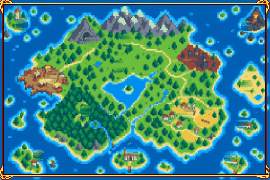
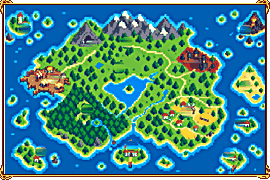
web client: world map fits inside Kaetram frame window + LANCZOS/unsharp sharpening
- map no longer bleeds over the frame ring: it now fills only the inner
  window (inset 5px) measured from the original mapframe.png
- sharper source: LANCZOS downscale + unsharp mask, 128-color quantize
- numbered warp check image for icon repositioning feedback

diff --git a/scripts/_build_hub_worldmap.py b/scripts/_build_hub_worldmap.py
@@ -1,37 +1,47 @@
 """Build the final hub world map asset:
-1. Source = the user's GPT render (retro 96-color look they chose).
-2. CROP off the GPT-generated golden frame (keep only the inner map/ocean).
-3. True-downscale to 270x180 + flat 96-color quantize (retro pixel look).
-4. Composite the hollow ORIGINAL Kaetram frame ring on top -> this becomes
+1. Source = the user's APPROVED map (Lightshot 782, clean render).
+2. Crop off the GPT golden frame; inpaint the 14 translucent red markers.
+3. Scale the map to fit INSIDE the Kaetram frame's inner window (the frame
+   ring occupies only the outer ~5px — the map must NOT bleed over it).
+   Sharper look: LANCZOS downscale + unsharp mask (instead of BOX + flat).
+4. Composite the hollow ORIGINAL Kaetram frame ring on top ->
    web_client/public/ui/kaetram/interface/mapframe_custom.png
-(The CSS keeps the Kaetram frame visuals: we bake map under the ring into
-one PNG so no CSS layering is needed, and the close button area is intact.)
+5. Export a numbered check image (one bold number per warp icon) so the
+   user can say "move icon N to X" easily.
 """
+import json
+import math
+
 import numpy as np
-from PIL import Image
+from PIL import Image, ImageDraw, ImageFont
 
-# SOURCE = the user's APPROVED map (Lightshot 782 — the CLEAN render: green
-# forest everywhere the old variant had the dark-red/slate/orange blobs).
-# It carries 14 translucent red marker circles at our known warp coords —
-# each is inpainted below by cloning the ring pixels around it (median of
-# the surrounding annulus), so the underlying map art shows through.
-src = Image.open("_tmp_correct_map.png").convert("RGB")
+SRC = "_tmp_correct_map.png"
+FRAME = "web_client/public/ui/kaetram/interface/mapframe.png"
+HOLLOW = "web_client/public/ui/kaetram/interface/mapframe_hollow.png"
+OUT = "web_client/public/ui/kaetram/interface/mapframe_custom.png"
+MARKERS_JSON = "exported_map_art/warp_markers.json"
+CHECK = "exported_map_art/mapframe_custom_markers_x3.png"
+
+# --- inner window of the Kaetram frame (measured from mapframe.png) ------
+# ring: rows 3-4 top/bottom, cols 2-3 left/right (alpha 0 at 0-1 / 0-1).
+# Inner safe window with 1px breathing room:
+INSET = 5
+W, H = 270, 180
+IX0, IY0, IX1, IY1 = INSET, INSET, W - INSET, H - INSET
+IW, IH = IX1 - IX0, IY1 - IY0  # 260 x 170
+
+src = Image.open(SRC).convert("RGB")
 w, h = src.size
-
-# --- locate the golden GPT frame and crop INSIDE it -------------------
-# gold: high r, mid g, low b
 px = src.load()
+
 
 def is_goldish(c):
     r, g, b = c
     return r > 170 and g > 110 and b < 110 and (r - b) > 90
 
-# The GPT frame does NOT start at the image edge: outside it there is a
-# blue ocean margin, THEN the gold ring, THEN the map. So detect the gold
-# BAND range per edge (first/last mostly-gold row/col) and crop just inside
-# its inner boundary. Measured on the actual render: gold band at y≈8-16.
+
+# --- locate the golden GPT frame and crop INSIDE it ----------------------
 def gold_band(axis, reverse):
-    """(first, last) index of the dominant-gold band along an edge."""
     bands = []
     for i in range(120):
         if axis == "row":
@@ -46,6 +56,7 @@ def gold_band(axis, reverse):
         return None
     return (bands[0], bands[-1])
 
+
 top_band = gold_band("row", False)
 bot_band = gold_band("row", True)
 left_band = gold_band("col", False)
@@ -53,29 +64,19 @@ right_band = gold_band("col", True)
 print("gold bands:", top_band, bot_band, left_band, right_band)
 
 # --- inpaint the 14 translucent red marker circles -------------------------
-# Each marker sits at a known relative position (warp_markers.json, stored
-# in the 270x180 space that maps linearly onto this screenshot because the
-# user screenshotted the full map frame both times). For each marker: take
-# a ring of pixels JUST OUTSIDE the circle and fill the disc with per-scanline
-# horizontal interpolation between the ring's left/right edges — cheap and
-# seamless for flat-color pixel art.
-import json
-import math
-mk = json.load(open("exported_map_art/warp_markers.json"))
+mk = json.load(open(MARKERS_JSON))
 msrc = src.load()
-R = int(h * 0.032)  # marker radius in screenshot px (≈3.2% of height)
+R = int(h * 0.032)
 for m in mk["markers"]:
-    cx = m["x"] / 270 * w
-    cy = m["y"] / 180 * h
-    ri = R + 2   # disc to fill (slightly larger than the visible ring)
-    ro = R + 6   # sampling annulus outside it
+    cx = m["x"] / W * w
+    cy = m["y"] / H * h
+    ri = R + 2
     for dy in range(-ri, ri + 1):
         y = int(cy) + dy
         if not (0 <= y < h):
             continue
         span = int(math.sqrt(max(0.0, ri * ri - dy * dy)))
         x0, x1 = int(cx) - span, int(cx) + span
-        # sample just outside the disc on this scanline
         lx = max(0, x0 - 6)
         rx = min(w - 1, x1 + 6)
         lc = msrc[lx, y]
@@ -88,6 +89,7 @@ for m in mk["markers"]:
                 round(lc[2] + (rc[2] - lc[2]) * t),
             )
 print("inpainted", len(mk["markers"]), "markers")
+
 ft = (top_band[1] + 2) if top_band else 0
 fb = (bot_band[1] + 2) if bot_band else 0
 fl = (left_band[1] + 2) if left_band else 0
@@ -96,28 +98,43 @@ print(f"crop: L{fl} R{fr} T{ft} B{fb}")
 inner = src.crop((fl, ft, w - fr, h - fb))
 print("inner size:", inner.size)
 
-# --- true downscale + retro flat quantize -----------------------------
-small = inner.resize((270, 180), Image.BOX)
-q = small.quantize(colors=96, method=Image.MEDIANCUT, dither=Image.NONE).convert("RGB")
+# --- sharper downscale INTO the frame's inner window ----------------------
+# Cover-fit: scale so the map fills the window, center-crop the overflow.
+sw, sh = inner.size
+scale = max(IW / sw, IH / sh)
+nw, nh = round(sw * scale), round(sh * scale)
+sharp = inner.resize((nw, nh), Image.LANCZOS)
+# unsharp mask for crisp pixel-art edges after downscale
+sharp = sharp.filter(__import__("PIL.ImageFilter", fromlist=["ImageFilter"]).UnsharpMask(radius=2, percent=110, threshold=2))
+lx0, ly0 = (nw - IW) // 2, (nh - IH) // 2
+map_img = sharp.crop((lx0, ly0, lx0 + IW, ly0 + IH))
+q = map_img.quantize(colors=128, method=Image.MEDIANCUT, dither=Image.NONE).convert("RGB")
 q.save("exported_map_art/worldmap_hub_inner.png")
 
-# --- composite the hollow Kaetram ring on top -------------------------
-hollow = Image.open("web_client/public/ui/kaetram/interface/mapframe_hollow.png").convert("RGBA")
-base = q.convert("RGBA")
+# --- composite: transparent base + map inside window + hollow ring on top -
+base = Image.new("RGBA", (W, H), (0, 0, 0, 0))
+base.paste(q, (IX0, IY0))
+hollow = Image.open(HOLLOW).convert("RGBA")
 base.alpha_composite(hollow)
-base.save("web_client/public/ui/kaetram/interface/mapframe_custom.png")
-base.resize((810, 540), Image.NEAREST).save("exported_map_art/mapframe_custom_x3.png")
-print("saved -> web_client/public/ui/kaetram/interface/mapframe_custom.png")
+base.save(OUT)
+base.resize((W * 3, H * 3), Image.NEAREST).save("exported_map_art/mapframe_custom_x3.png")
+print("saved ->", OUT)
 
-# --- markers check on the final asset ---------------------------------
-import json
-from PIL import ImageDraw
-mk = json.load(open("exported_map_art/warp_markers.json"))
-vis = base.convert("RGB").resize((810, 540), Image.NEAREST)
+# --- numbered check image (bold number on every warp icon) ---------------
+S = 3
+vis = base.convert("RGB").resize((W * S, H * S), Image.NEAREST)
 d = ImageDraw.Draw(vis)
+try:
+    font = ImageFont.load_default(size=22)
+except TypeError:
+    font = ImageFont.load_default()
 for m in mk["markers"]:
-    x, y = m["x"] / 270 * 810, m["y"] / 180 * 540
-    d.ellipse([x - 8, y - 8, x + 8, y + 8], outline=(0, 255, 60), width=2)
-    d.text((x + 9, y - 6), str(m["id"]), fill=(0, 255, 60))
-vis.save("exported_map_art/mapframe_custom_markers_x3.png")
-print("marker check -> exported_map_art/mapframe_custom_markers_x3.png")
+    x, y = m["x"] / W * W * S, m["y"] / H * H * S
+    r_out = 13
+    # white disc + dark outline + dark bold number = readable on any art
+    d.ellipse([x - r_out, y - r_out, x + r_out, y + r_out], fill=(255, 255, 255), outline=(20, 20, 20), width=3)
+    tb = d.textbbox((0, 0), str(m["id"]), font=font, stroke_width=1)
+    tw, th = tb[2] - tb[0], tb[3] - tb[1]
+    d.text((x - tw / 2 - tb[0], y - th / 2 - tb[1]), str(m["id"]), font=font, fill=(10, 10, 10))
+vis.save(CHECK)
+print("numbered check ->", CHECK)
